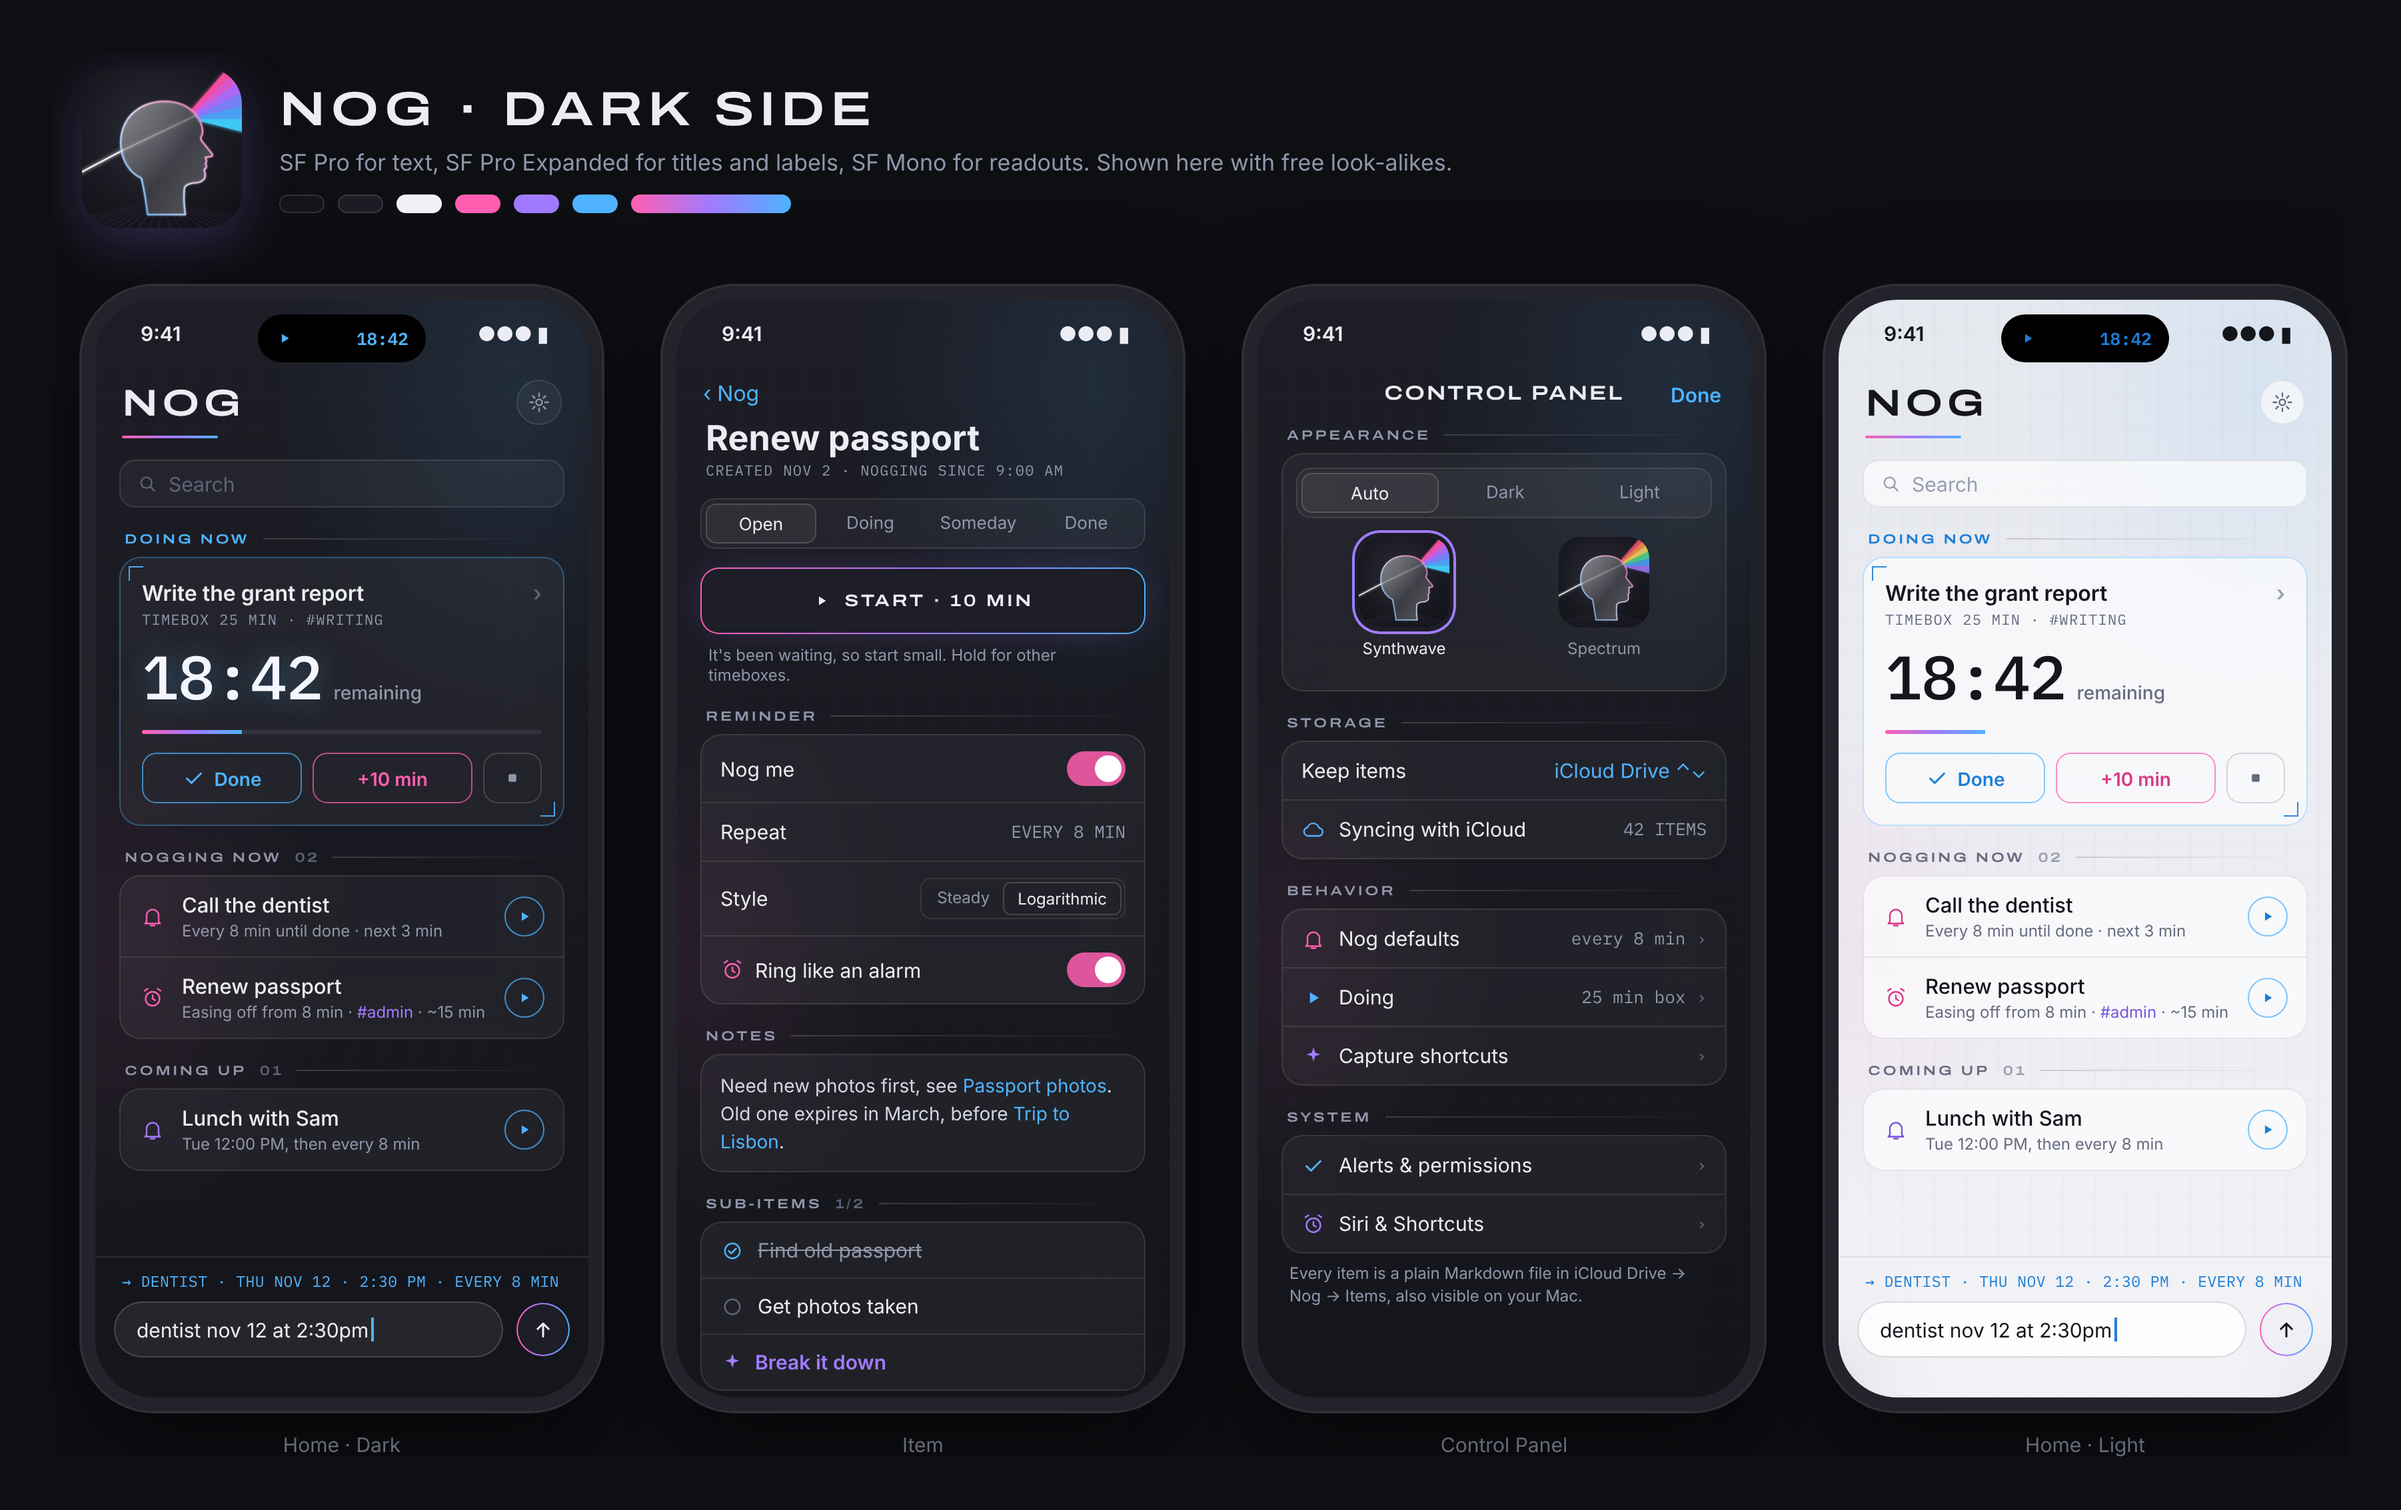
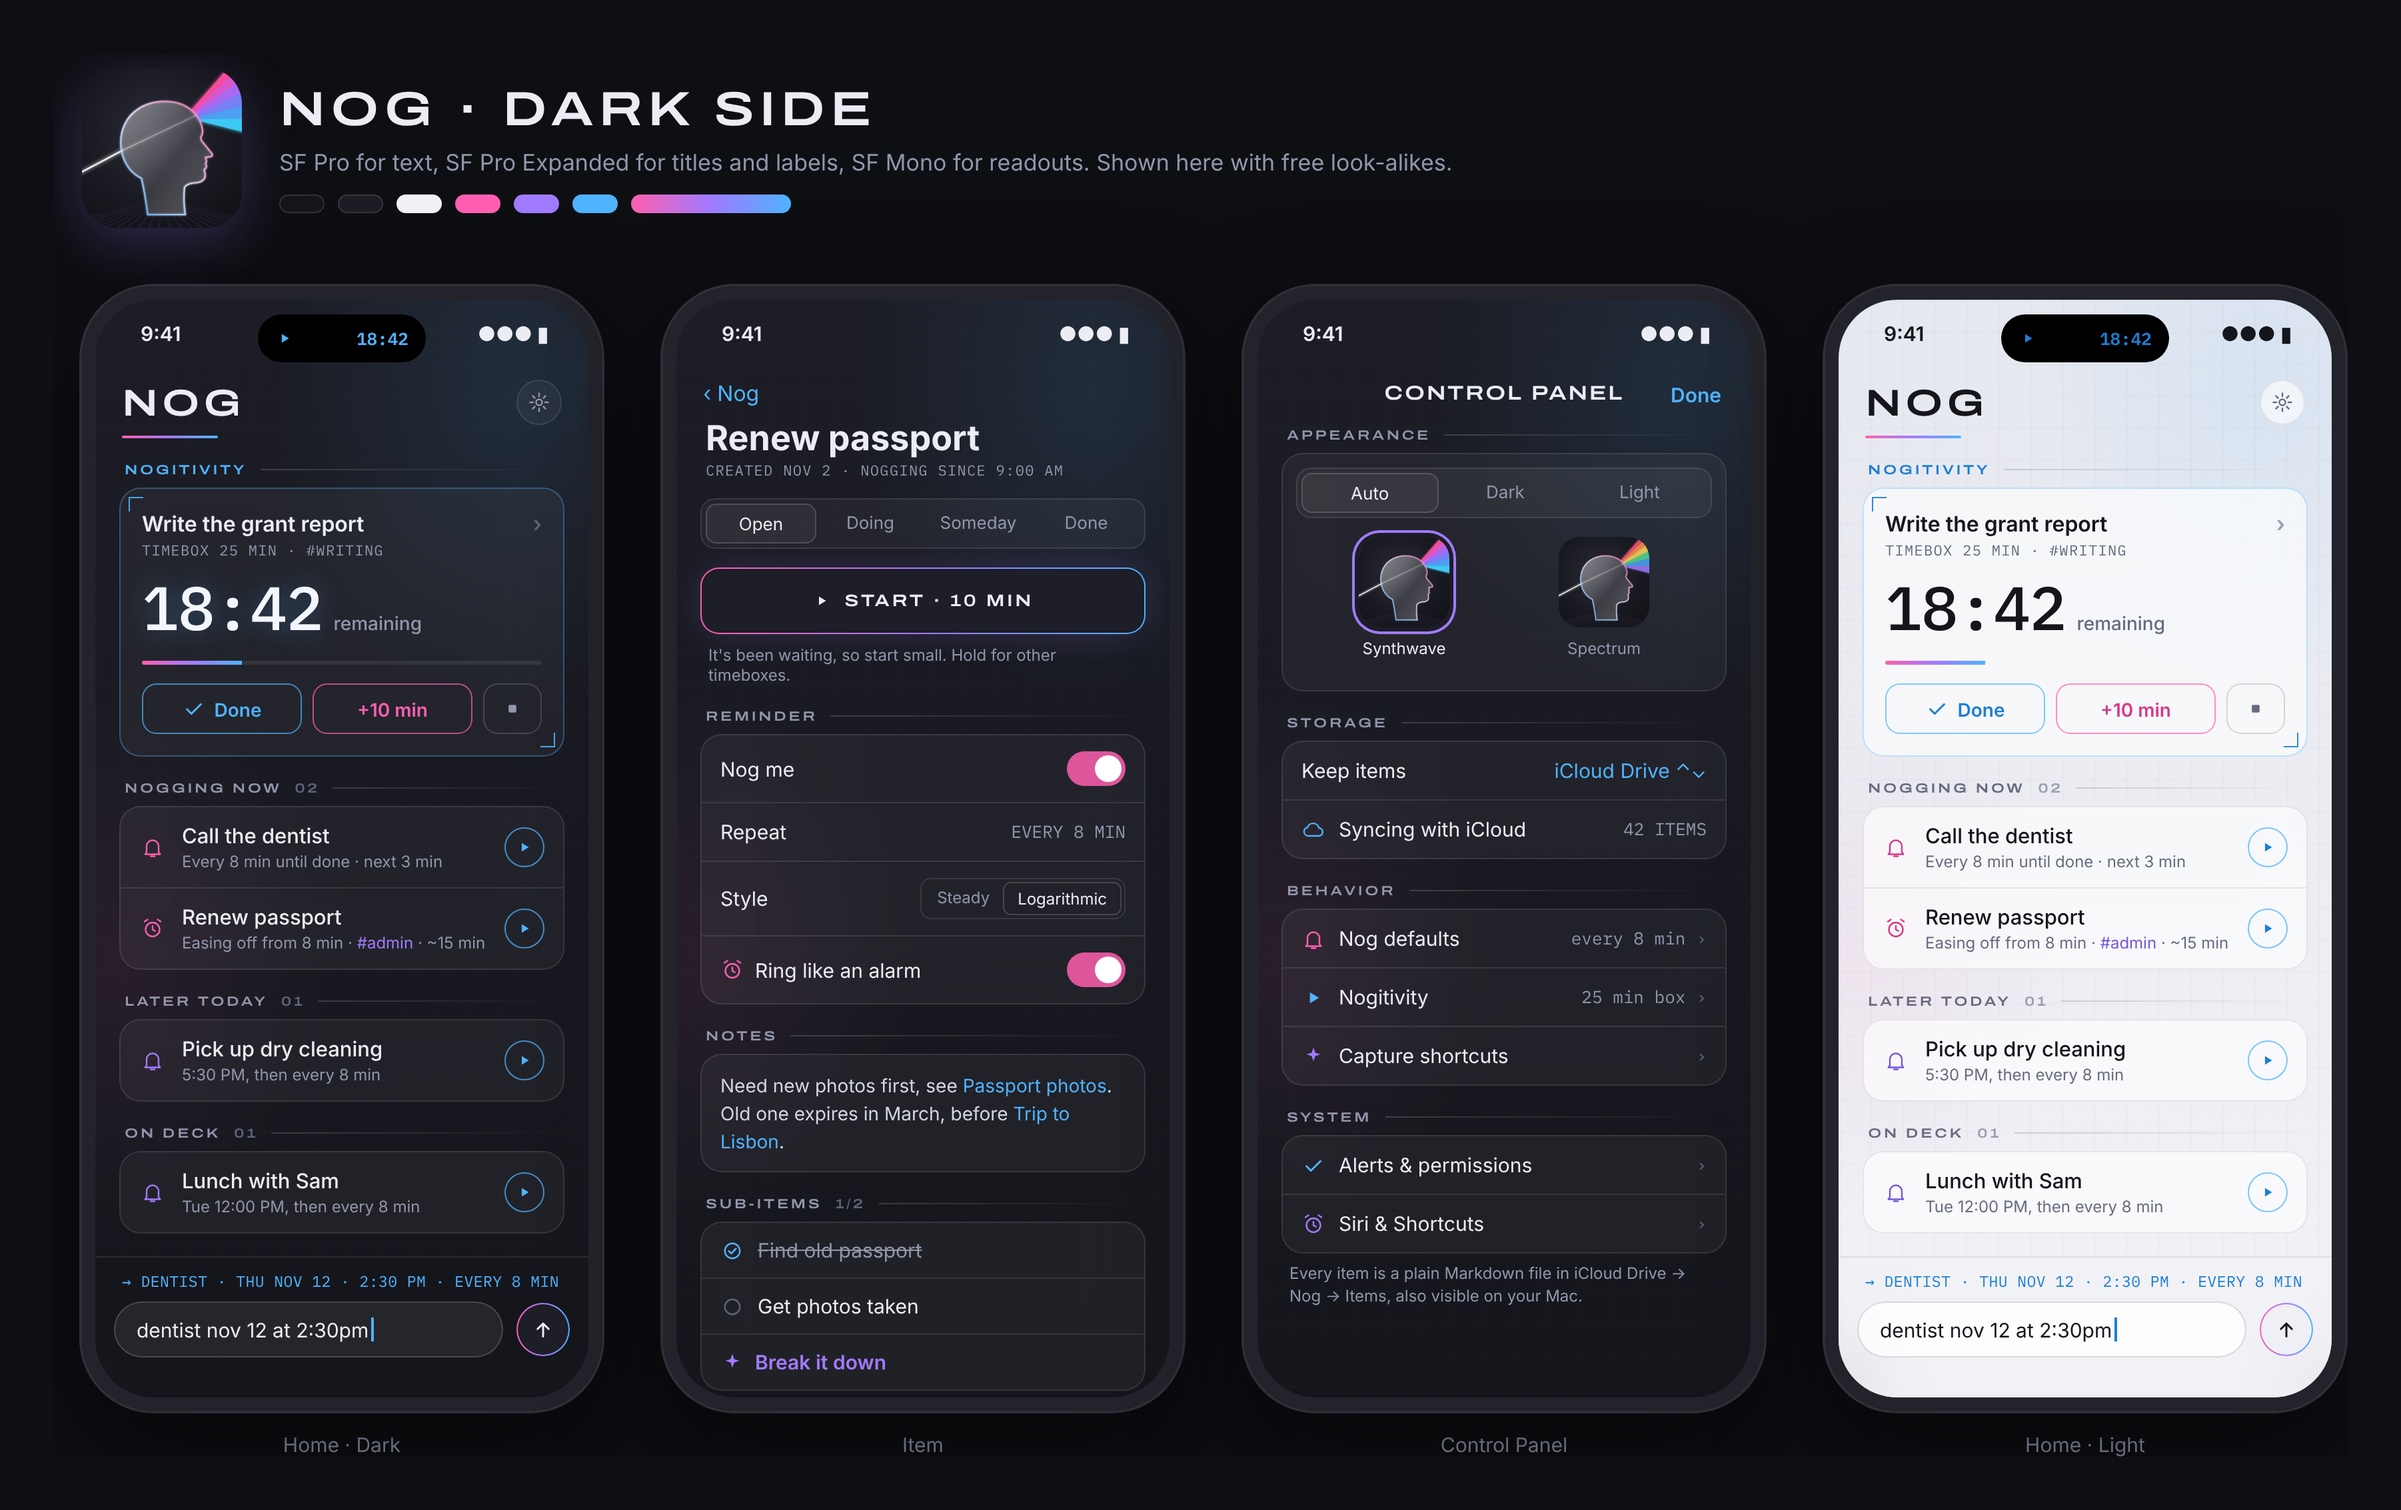
List sections: Nogitivity, Nogging now, Later today, On deck, Loose nogs
Claude-Session: https://claude.ai/code/session_011NrqeaQSBnZTDuxa45XyTe

Changed region(s): [[0.7771, 0.3088, 0.9326, 0.8028], [0.0622, 0.3088, 0.1865, 0.8028], [0.5595, 0.6484, 0.5906, 0.6793]]

diff --git a/Nog/Views/RootView.swift b/Nog/Views/RootView.swift
@@ -69,6 +69,8 @@ struct ItemListView: View {
                 .sorted { $0.reminder!.start < $1.reminder!.start }
             let upcoming = open.filter { $0.reminder.map { !$0.isActive(at: now) } ?? false }
                 .sorted { $0.reminder!.start < $1.reminder!.start }
+            let laterToday = upcoming.filter { Calendar.current.isDate($0.reminder!.start, inSameDayAs: now) }
+            let onDeck = upcoming.filter { !Calendar.current.isDate($0.reminder!.start, inSameDayAs: now) }
             let ideas = open.filter { $0.reminder == nil }
                 .sorted { $0.updated > $1.updated }
             let someday = all.filter { $0.status == .someday }
@@ -86,12 +88,13 @@ struct ItemListView: View {
                                 .listRowInsets(EdgeInsets(top: 4, leading: 0, bottom: 4, trailing: 0))
                         }
                     } header: {
-                        SectionLabel(title: "Doing now", tint: Theme.blue)
+                        SectionLabel(title: "Nogitivity", tint: Theme.blue)
                     }
                 }
                 section("Nogging now", due)
-                section("Coming up", upcoming)
-                section("No reminder", ideas)
+                section("Later today", laterToday)
+                section("On deck", onDeck)
+                section("Loose nogs", ideas)
                 section("Someday", someday)
                 if !done.isEmpty {
                     Section {

diff --git a/Nog/Views/SettingsView.swift b/Nog/Views/SettingsView.swift
@@ -142,7 +142,7 @@ struct SettingsView: View {
             NavigationLink {
                 DoingPage()
             } label: {
-                row("Doing", "play.circle", Theme.blue,
+                row("Nogitivity", "play.circle", Theme.blue,
                     detail: timebox > 0 ? "\(IntervalFormat.short(timebox)) box" : "open-ended")
             }
             NavigationLink {
@@ -253,14 +253,14 @@ private struct DoingPage: View {
                     ForEach(NogSettings.timeboxChoices, id: \.self) { Text(IntervalFormat.short($0)).tag($0) }
                 }
             } header: {
-                SectionLabel(title: "▶ Doing")
+                SectionLabel(title: "▶ Nogitivity")
             } footer: {
                 Text("Nog suggests, in order: the item's estimate, how long similar items took you (same #tag or project), a short box if it's urgent or overdue, then this default.")
             }
             .listRowBackground(Theme.glass)
         }
         .nogListStyle()
-        .navigationTitle("Doing")
+        .navigationTitle("Nogitivity")
     }
 }
 

diff --git a/NogWidgets/DoingLiveActivity.swift b/NogWidgets/DoingLiveActivity.swift
@@ -70,7 +70,7 @@ private struct DoingActivityView: View {
         } else {
             VStack(alignment: .leading, spacing: 10) {
                 HStack(alignment: .firstTextBaseline) {
-                    Label("DOING", systemImage: "play.fill")
+                    Label("NOGITIVITY", systemImage: "play.fill")
                         .font(.nogLabel)
                         .tracking(1.8)
                         .foregroundStyle(Theme.blue)

diff --git a/Nog/Views/ItemDetailView.swift b/Nog/Views/ItemDetailView.swift
@@ -125,7 +125,7 @@ private struct ItemEditor: View {
                     .listRowBackground(Color.clear)
                     .listRowInsets(EdgeInsets())
             } header: {
-                SectionLabel(title: "Doing now", tint: Theme.blue)
+                SectionLabel(title: "Nogitivity", tint: Theme.blue)
             }
         } else if item.status != .done {
             Section {

diff --git a/README.md b/README.md
@@ -41,7 +41,18 @@ As you type, a line above the capture field shows how Nog understood it. A day w
 - **Ring like an alarm.** Flip it on per item, or type `!alarm`, and that item's nogs become real AlarmKit alarms. They break through Silent mode and Focus, take over the Lock Screen and your Watch, and have Done / Snooze buttons. Regular nogs take over again after the scheduled alarms run out.
 - **Break it down.** On-device Apple Intelligence (Foundation Models) suggests 3–7 concrete first steps for any item, and you pick which ones become sub-items. It runs only on Apple Intelligence devices, and nothing leaves the phone.
 
-## ▶ Doing a nog
+## The list
+
+| Section | What's in it |
+|---|---|
+| **Nogitivity** | what you've hit ▶ on, with its live timer |
+| **Nogging now** | reminders firing right now |
+| **Later today** | nogs that start later today |
+| **On deck** | tomorrow and beyond |
+| **Loose nogs** | no reminder: ideas, concepts, notes |
+| **Someday** / **Done** | parked, and finished (kept for reference) |
+
+## ▶ Doing a nog (Nogitivity)
 
 Every nog has a play button. Tap it and the nog becomes **Doing**, the thing you're working on right now:
 
